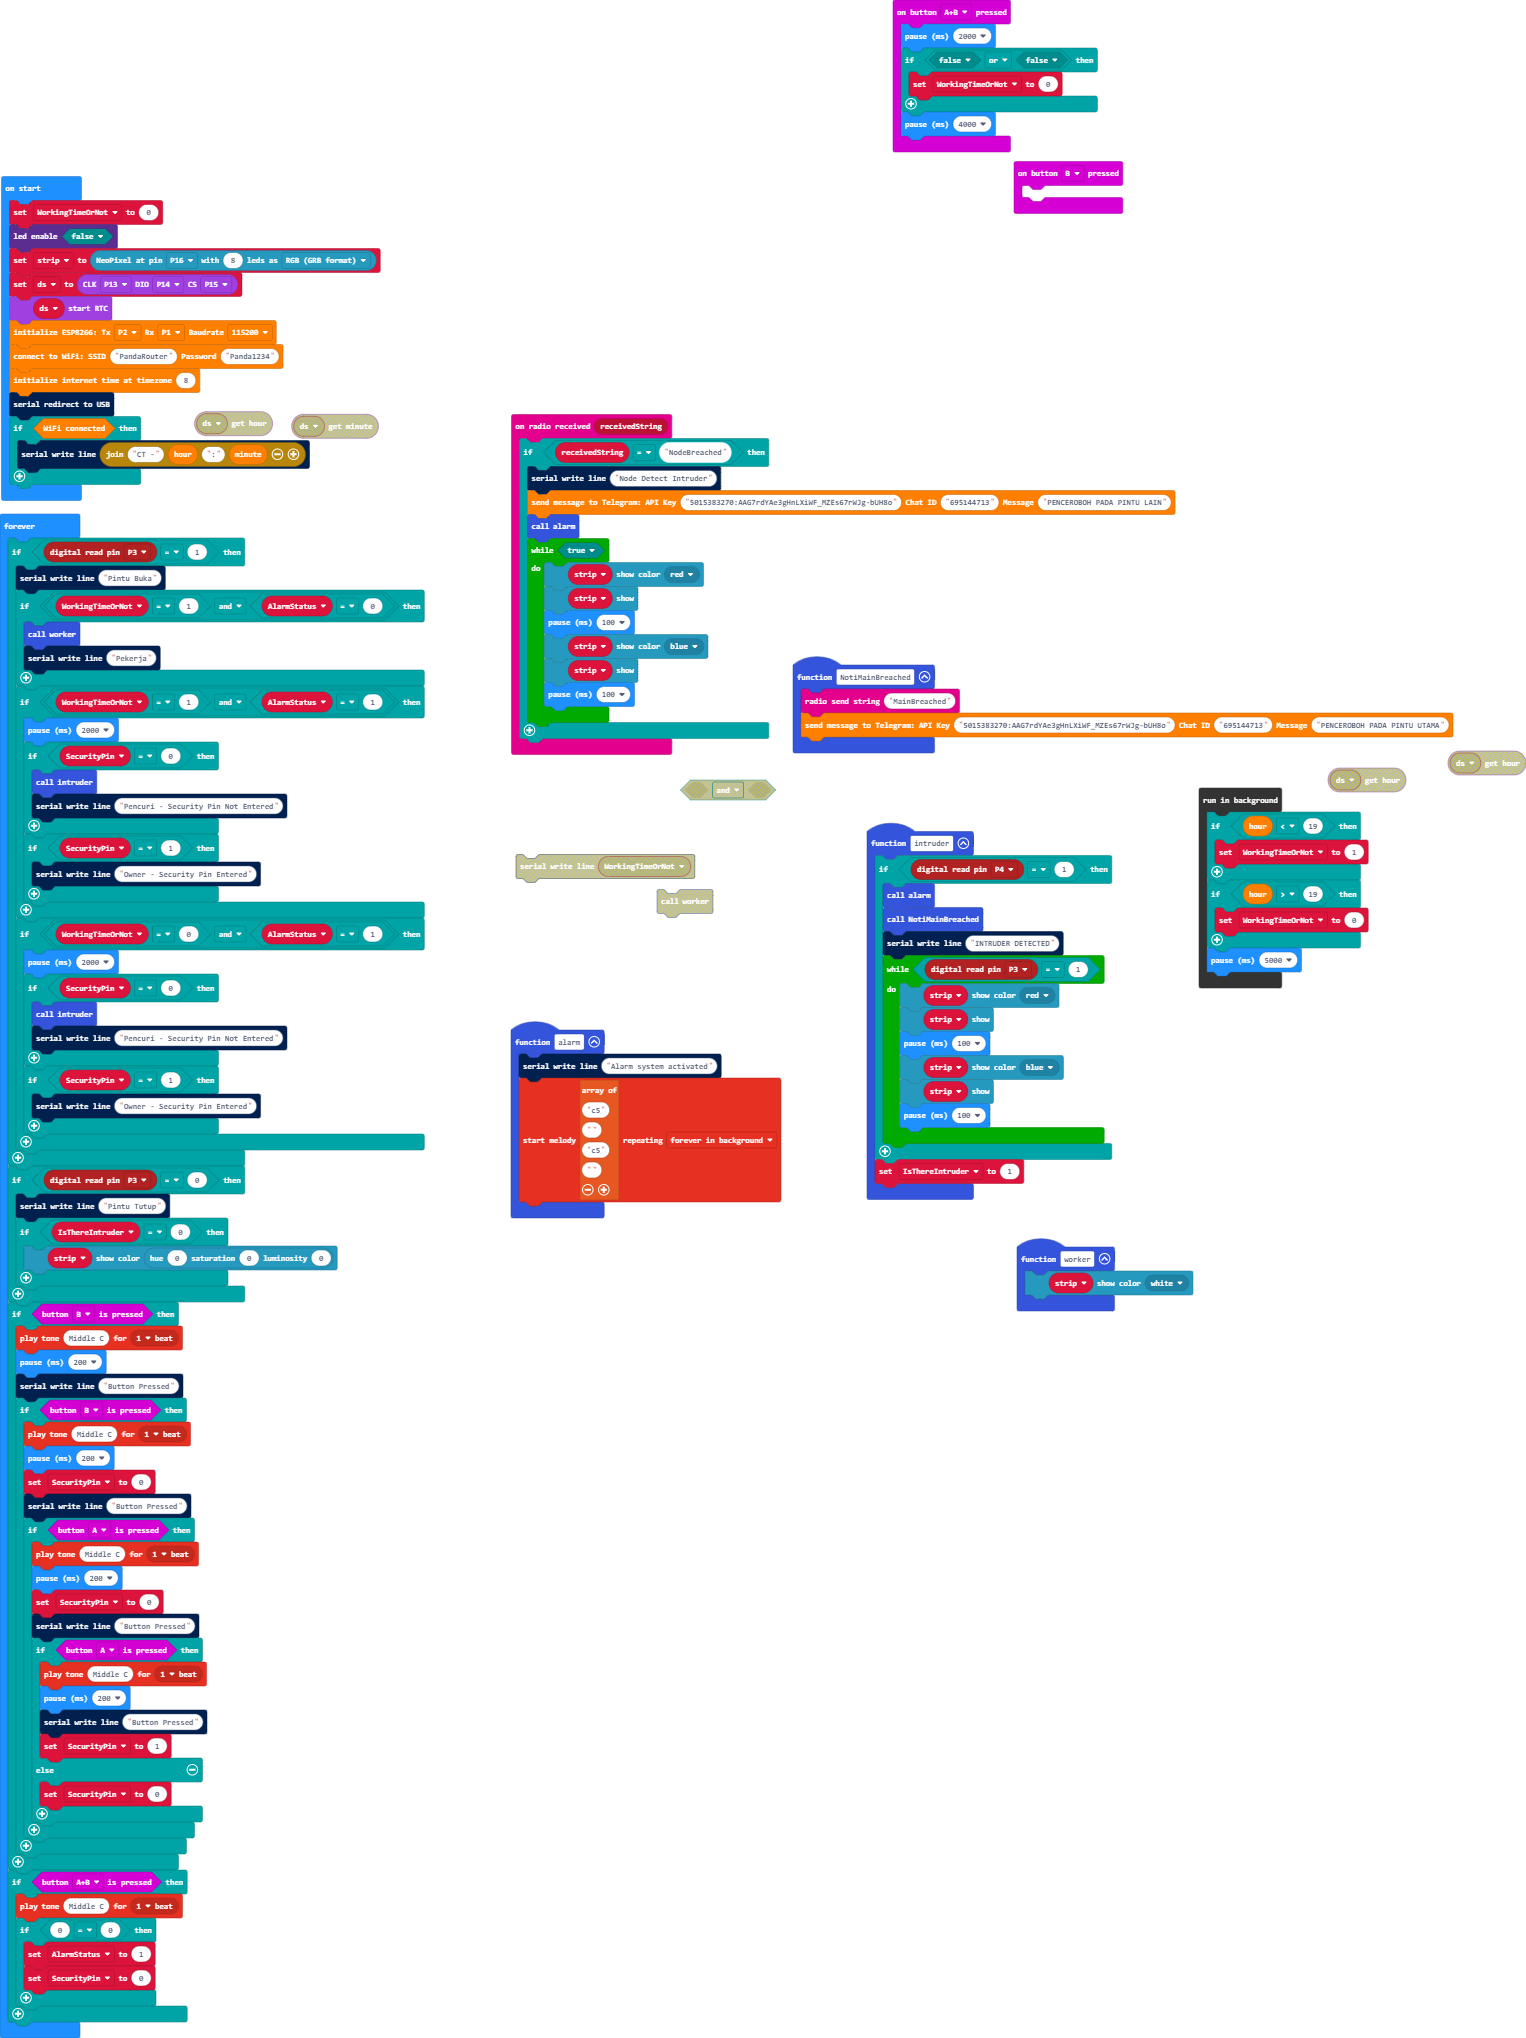
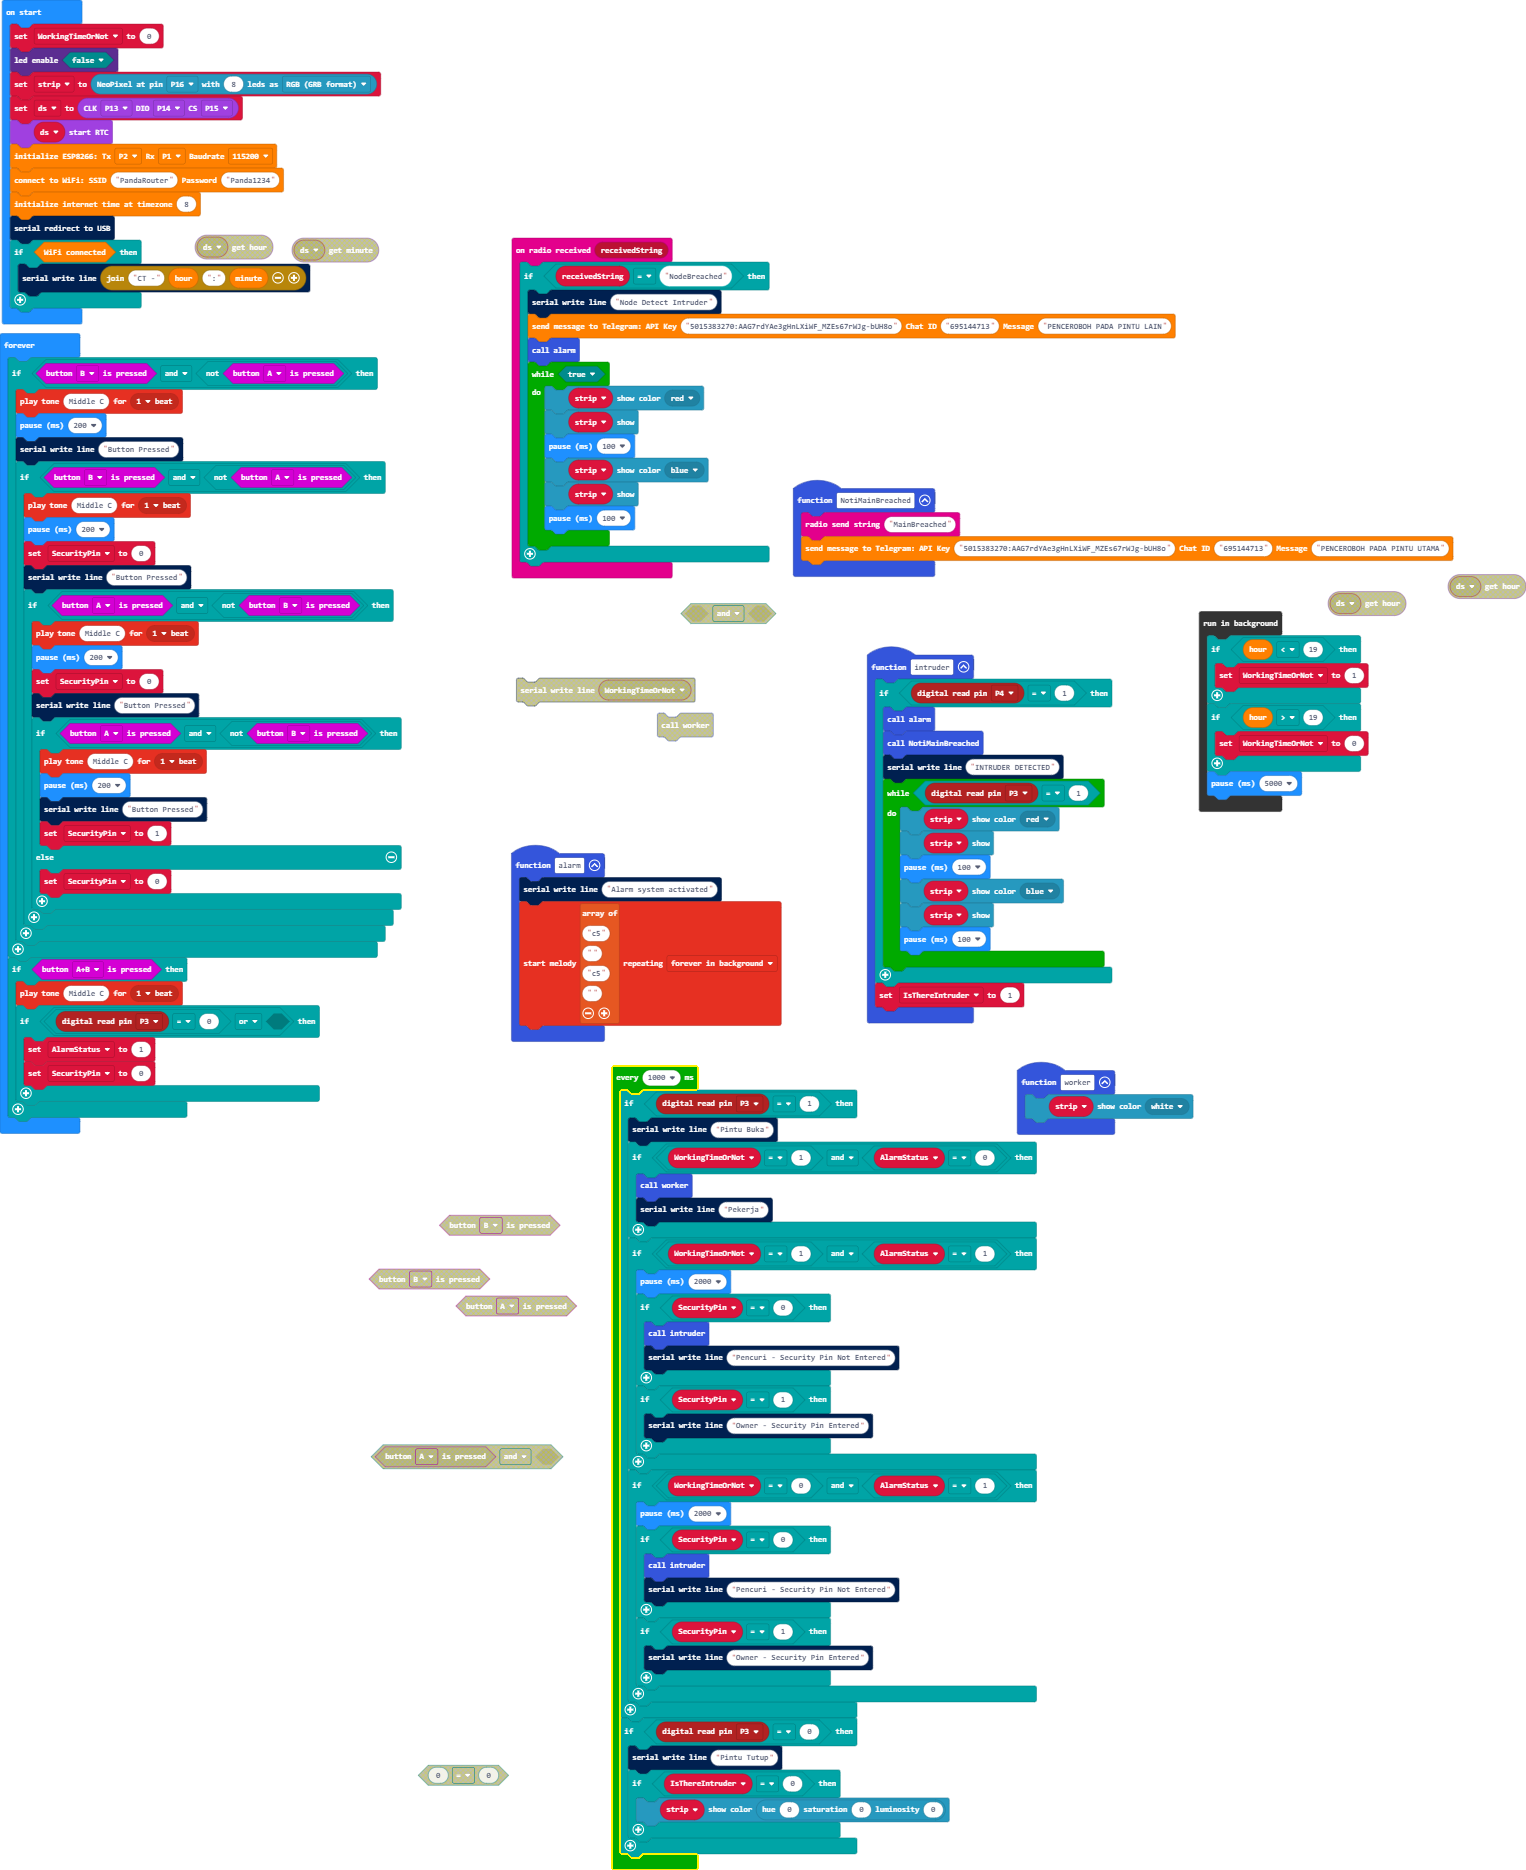
Update pxt.json, main.blocks, main.ts

diff --git a/main.ts b/main.ts
@@ -27,13 +27,6 @@ function alarm () {
     ""
     ], MelodyOptions.ForeverInBackground)
 }
-input.onButtonPressed(Button.AB, function () {
-    basic.pause(2000)
-    if (false || false) {
-        WorkingTimeOrNot = 0
-    }
-    basic.pause(4000)
-})
 radio.onReceivedString(function (receivedString) {
     if (receivedString == "NodeBreached") {
         serial.writeLine("Node Detect Intruder")
@@ -49,9 +42,6 @@ radio.onReceivedString(function (receivedString) {
         }
     }
 })
-input.onButtonPressed(Button.B, function () {
-	
-})
 function worker () {
     strip.showColor(neopixel.colors(NeoPixelColors.White))
 }
@@ -60,7 +50,6 @@ let AlarmStatus = 0
 let IsThereIntruder = 0
 let strip: neopixel.Strip = null
 let WorkingTimeOrNot = 0
-WorkingTimeOrNot = 0
 led.enable(false)
 strip = neopixel.create(DigitalPin.P16, 8, NeoPixelMode.RGB)
 let ds = DS1302.create(DigitalPin.P13, DigitalPin.P14, DigitalPin.P15)
@@ -72,7 +61,7 @@ serial.redirectToUSB()
 if (esp8266.isWifiConnected()) {
     serial.writeLine("CT -" + esp8266.getHour() + ":" + esp8266.getMinute())
 }
-basic.forever(function () {
+loops.everyInterval(1000, function () {
     if (pins.digitalReadPin(DigitalPin.P3) == 1) {
         serial.writeLine("Pintu Buka")
         if (WorkingTimeOrNot == 1 && AlarmStatus == 0) {
@@ -106,21 +95,23 @@ basic.forever(function () {
             strip.showColor(neopixel.hsl(0, 0, 0))
         }
     }
-    if (input.buttonIsPressed(Button.B)) {
+})
+basic.forever(function () {
+    if (input.buttonIsPressed(Button.B) && !(input.buttonIsPressed(Button.A))) {
         music.playTone(262, music.beat(BeatFraction.Whole))
         basic.pause(200)
         serial.writeLine("Button Pressed")
-        if (input.buttonIsPressed(Button.B)) {
+        if (input.buttonIsPressed(Button.B) && !(input.buttonIsPressed(Button.A))) {
             music.playTone(262, music.beat(BeatFraction.Whole))
             basic.pause(200)
             SecurityPin = 0
             serial.writeLine("Button Pressed")
-            if (input.buttonIsPressed(Button.A)) {
+            if (input.buttonIsPressed(Button.A) && !(input.buttonIsPressed(Button.B))) {
                 music.playTone(262, music.beat(BeatFraction.Whole))
                 basic.pause(200)
                 SecurityPin = 0
                 serial.writeLine("Button Pressed")
-                if (input.buttonIsPressed(Button.A)) {
+                if (input.buttonIsPressed(Button.A) && !(input.buttonIsPressed(Button.B))) {
                     music.playTone(262, music.beat(BeatFraction.Whole))
                     basic.pause(200)
                     serial.writeLine("Button Pressed")
@@ -133,7 +124,7 @@ basic.forever(function () {
     }
     if (input.buttonIsPressed(Button.AB)) {
         music.playTone(262, music.beat(BeatFraction.Whole))
-        if (0 == 0) {
+        if (pins.digitalReadPin(DigitalPin.P3) == 0 || false) {
             AlarmStatus = 1
             SecurityPin = 0
         }
